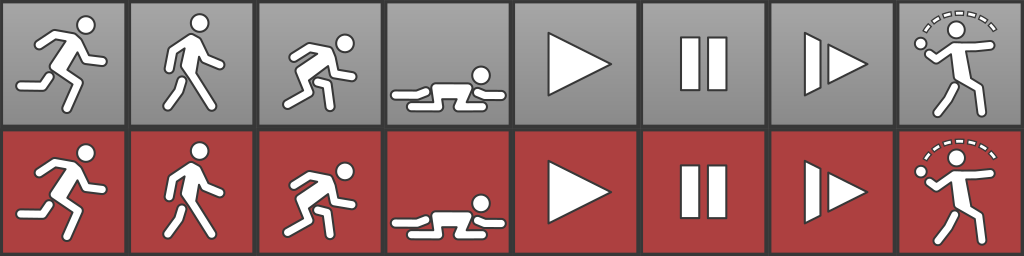
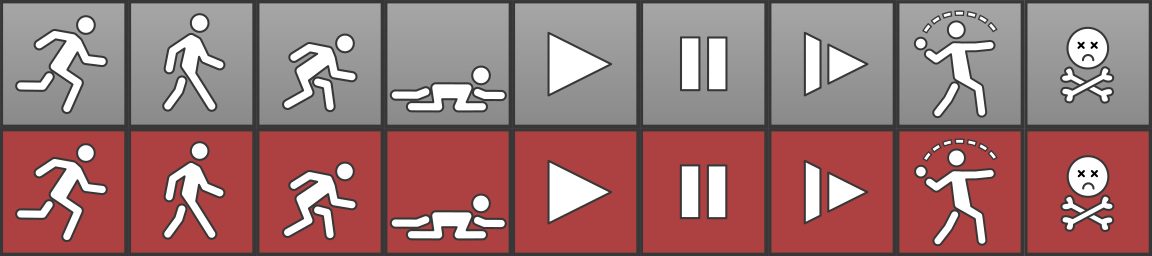
Added a ragdoll control button

diff --git a/core/src/com/mygdx/game/GameStage.java b/core/src/com/mygdx/game/GameStage.java
@@ -80,9 +80,6 @@ public class GameStage extends Stage implements Observable {
 			if (keycode == GameSettings.KEY_PAUSE) {
 				speedController.setGameSpeed();
 			}
-			if (keycode == GameSettings.KEY_KILL_CHARACTER) {
-				characterController.killCharacter();
-			}
 			return true;
 		}
 
@@ -260,12 +257,12 @@ public class GameStage extends Stage implements Observable {
 		}
 	}
 
-	private class CharacterMovementController extends Table {
-		private final ArrayMap<ImageButton, GameCharacter.CharacterState> movementButtons;
+	private class CharacterController extends Table {
+		private final ArrayMap<ImageButton, GameCharacter.CharacterState> characterButtons;
 		private GameCharacter selectedCharacter;
 
-		public CharacterMovementController(TextureAtlas buttonAtlas) {
-			movementButtons = new ArrayMap<ImageButton, GameCharacter.CharacterState>();
+		public CharacterController(TextureAtlas buttonAtlas) {
+			characterButtons = new ArrayMap<ImageButton, GameCharacter.CharacterState>();
 
 			ImageButton.ImageButtonStyle btnRunStyle = new ImageButton.ImageButtonStyle();
 			btnRunStyle.up = new TextureRegionDrawable(buttonAtlas.findRegion("run-up"));
@@ -291,74 +288,81 @@ public class GameStage extends Stage implements Observable {
 //		btnCrawlStyle.checked = new TextureRegionDrawable(buttonAtlas.findRegion("crawl-down"));
 //		final ImageButton btnCrawl = new ImageButton(btnCrawlStyle);
 
-			movementButtons.put(btnRun, GameCharacter.CharacterState.MOVE_RUN);
-			movementButtons.put(btnWalk, GameCharacter.CharacterState.MOVE_WALK);
-			movementButtons.put(btnCrouch, GameCharacter.CharacterState.MOVE_CROUCH);
-//		movementButtons.put(btnCrawl, GameCharacter.CharacterState.MOVE_CRAWL);
+			ImageButton.ImageButtonStyle btnKillStyle = new ImageButton.ImageButtonStyle();
+			btnKillStyle.up = new TextureRegionDrawable(buttonAtlas.findRegion("kill-up"));
+			btnKillStyle.down = new TextureRegionDrawable(buttonAtlas.findRegion("kill-down"));
+			btnKillStyle.checked = new TextureRegionDrawable(buttonAtlas.findRegion("kill-down"));
+			final ImageButton btnKill = new ImageButton(btnKillStyle);
 
-			for (ImageButton btn : movementButtons.keys()) {
+			characterButtons.put(btnRun, GameCharacter.CharacterState.MOVE_RUN);
+			characterButtons.put(btnWalk, GameCharacter.CharacterState.MOVE_WALK);
+			characterButtons.put(btnCrouch, GameCharacter.CharacterState.MOVE_CROUCH);
+//		characterButtons.put(btnCrawl, GameCharacter.CharacterState.MOVE_CRAWL);
+			characterButtons.put(btnKill, GameCharacter.CharacterState.DEAD);
+
+			for (ImageButton btn : characterButtons.keys()) {
 				add(btn).size(75, 75);
 			}
 
 			btnRun.addListener(new InputListener() {
 				public boolean touchDown(InputEvent event, float x, float y, int pointer, int button) {
-					handleMoveButtonPress(btnRun);
+					handleCharacterButtonPress(btnRun);
 					return true;
 				}
 			});
 			btnWalk.addListener(new InputListener() {
 				public boolean touchDown(InputEvent event, float x, float y, int pointer, int button) {
-					handleMoveButtonPress(btnWalk);
+					handleCharacterButtonPress(btnWalk);
 					return true;
 				}
 			});
 			btnCrouch.addListener(new InputListener() {
 				public boolean touchDown(InputEvent event, float x, float y, int pointer, int button) {
-					handleMoveButtonPress(btnCrouch);
+					handleCharacterButtonPress(btnCrouch);
 					return true;
 				}
 			});
 //		btnCrawl.addListener(new InputListener() {
 //			public boolean touchDown(InputEvent event, float x, float y, int pointer, int button) {
-//				handleMoveButtonPress(btnCrawl);
+//				handleCharacterButtonPress(btnCrawl);
 //				return true;
 //			}
 //		});
+			btnKill.addListener(new InputListener() {
+				public boolean touchDown(InputEvent event, float x, float y, int pointer, int button) {
+					handleCharacterButtonPress(btnKill);
+					return true;
+				}
+			});
 		}
 
-		private void handleMoveButtonPress(ImageButton thisBtn) {
+		private void handleCharacterButtonPress(ImageButton thisBtn) {
 			if (selectedCharacter == null) {
 				return;
 			}
 			boolean checked = thisBtn.isChecked();
 			if (!checked) {
-				for (ImageButton btn : movementButtons.keys()) {
+				for (ImageButton btn : characterButtons.keys()) {
 					btn.setChecked(false);
 				}
 				thisBtn.setChecked(true);
-				GameCharacter.CharacterState newState = movementButtons.get(thisBtn);
+				GameCharacter.CharacterState newState = characterButtons.get(thisBtn);
 				selectedCharacter.handleStateCommand(newState);
 
 			}
 		}
 
-		private void setMovementButtons(GameCharacter.CharacterState state) {
-			for (ImageButton btn : movementButtons.keys()) {
+		private void setCharacterButtons(GameCharacter.CharacterState state) {
+			for (ImageButton btn : characterButtons.keys()) {
 				btn.setChecked(false);
 			}
-			movementButtons.getKey(state, true).setChecked(true);
+			characterButtons.getKey(state, true).setChecked(true);
 		}
 
 		public void handleCharacterSelection(GameCharacter character) {
 			selectedCharacter = character;
-			setMovementButtons(selectedCharacter.getCurrentMoveState());
+			setCharacterButtons(selectedCharacter.getCurrentMoveState());
 			notifyObserversEntitySelected(selectedCharacter);
-		}
-
-		public void killCharacter() {
-			if (selectedCharacter != null) {
-				selectedCharacter.stateMachine.changeState(GameCharacter.CharacterState.DEAD);
-			}
 		}
 
 		public void handleCharacterPathing(Ray ray) {
@@ -392,7 +396,7 @@ public class GameStage extends Stage implements Observable {
 	private final WorldInputProcessor worldInputProcessor;
 	private final Label fpsLabel;
 	private final GameSpeedController speedController;
-	private final CharacterMovementController characterController;
+	private final CharacterController characterController;
 	private Bits visibleLayers;
 
 	public GameStage(GameEngine engine, Viewport viewport, CameraController cameraController) {
@@ -427,7 +431,7 @@ public class GameStage extends Stage implements Observable {
 		mouseCoordsLabel = new Label(null, skin);
 		fpsLabel = new Label(null, skin);
 		speedController = new GameSpeedController(buttonsAtlas);
-		characterController = new CharacterMovementController(buttonsAtlas);
+		characterController = new CharacterController(buttonsAtlas);
 
 
 		rootTable = new Table();

diff --git a/core/src/com/mygdx/game/objects/GameCharacter.java b/core/src/com/mygdx/game/objects/GameCharacter.java
@@ -1,12 +1,12 @@
 /*******************************************************************************
  * Copyright 2015 See AUTHORS file.
- *
+ * <p/>
  * Licensed under the Apache License, Version 2.0 (the "License");
  * you may not use this file except in compliance with the License.
  * You may obtain a copy of the License at
- *
- *   http://www.apache.org/licenses/LICENSE-2.0
- *
+ * <p/>
+ * http://www.apache.org/licenses/LICENSE-2.0
+ * <p/>
  * Unless required by applicable law or agreed to in writing, software
  * distributed under the License is distributed on an "AS IS" BASIS,
  * WITHOUT WARRANTIES OR CONDITIONS OF ANY KIND, either express or implied.
@@ -260,7 +260,9 @@ public class GameCharacter extends Ragdoll {
 	public void handleStateCommand(CharacterState newState) {
 		boolean isSteering = isSteering();
 
-		if (isSteering) {
+		if (newState == CharacterState.DEAD) {
+			stateMachine.changeState(newState);
+		} else if (isSteering) {
 			stateMachine.changeState(newState);
 		} else if (moveIdleMap.containsKey(newState)) {
 			moveState = newState;

diff --git a/core/src/com/mygdx/game/objects/Ragdoll.java b/core/src/com/mygdx/game/objects/Ragdoll.java
@@ -155,6 +155,7 @@ public class Ragdoll extends SteerableBody {
 	public void setRagdollControl(boolean setRagdollControl) {
 
 		if (setRagdollControl) {
+
 			updateBodiesToArmature();
 
 			// Ragdoll follows animation currently, set it to use physics control.
@@ -163,6 +164,7 @@ public class Ragdoll extends SteerableBody {
 
 			// Get the current translation of the base collision shape (the capsule)
 			capsuleTransform.getTranslation(capsuleTranslation);
+
 			// Reset any rotation of the model caused by the motion state from the physics engine,
 			// but keep the translation.
 			modelInstance.transform = resetRotationTransform.idt().inv().setToTranslation(capsuleTranslation);

diff --git a/core/src/com/mygdx/game/objects/SteerableBody.java b/core/src/com/mygdx/game/objects/SteerableBody.java
@@ -166,6 +166,7 @@ public class SteerableBody extends GameModelBody implements Steerable<Vector3> {
 		body.setAngularVelocity(Vector3.Zero);
 		// Since we were only rotating the model when steering, set body to
 		// model rotation when finished moving.
+		position = getPosition();
 		transform.setFromEulerAngles(
 				currentFacingQuat.getYaw(),
 				currentFacingQuat.getPitch(),

diff --git a/core/src/com/mygdx/game/settings/GameSettings.java b/core/src/com/mygdx/game/settings/GameSettings.java
@@ -42,8 +42,6 @@ public class GameSettings {
 	public static int KEY_PAN_BACKWARD = Input.Keys.S;
 	public static int KEY_PAN_RIGHT = Input.Keys.D;
 
-	public static int KEY_KILL_CHARACTER = Input.Keys.F5;
-
 	public static float SOUND_VOLUME = 1f;
 	public static float MUSIC_VOLUME = 1f;
 }
